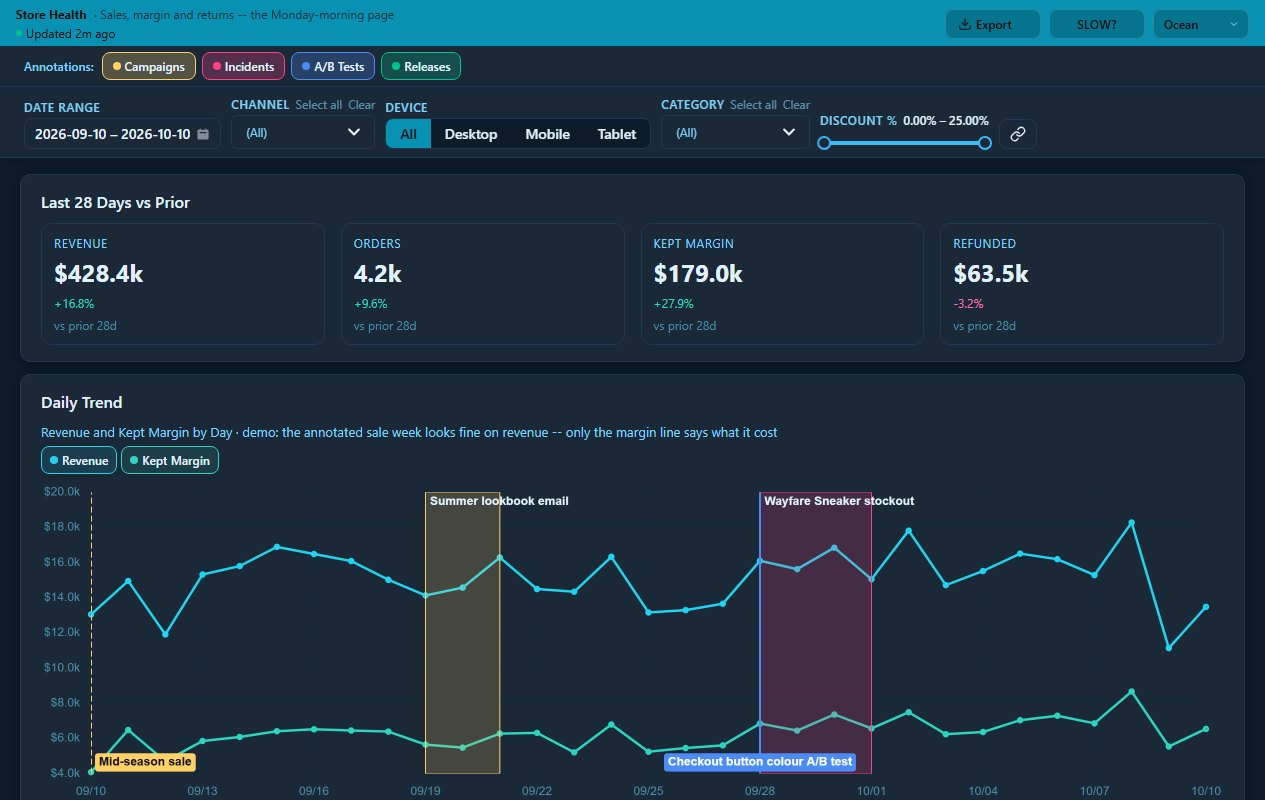
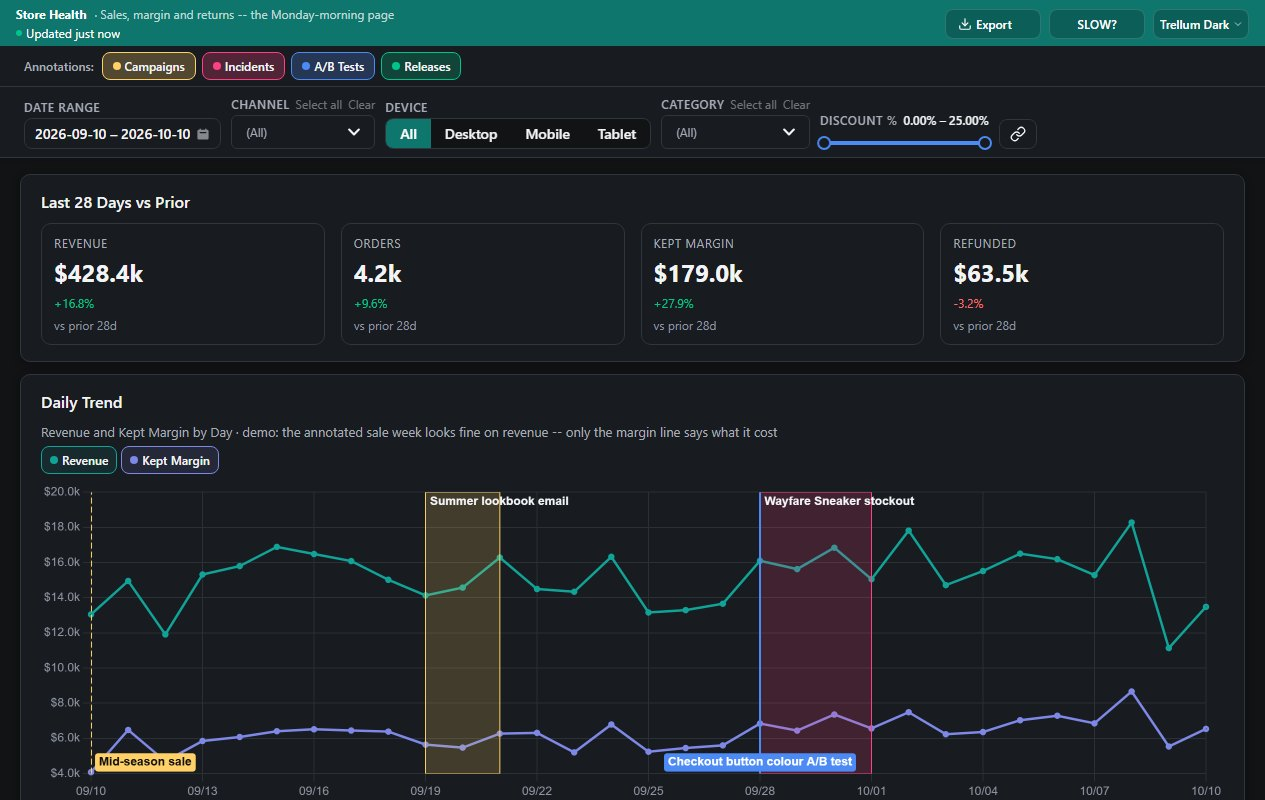
docs: use Trellum Dark in README reports

diff --git a/README.md b/README.md
@@ -38,15 +38,15 @@ and source files, rebuilds the report, and the preview refreshes while the
 source stays reviewable in Git.
 
 <p align="center">
-  <img src="docs/assets/store-health.jpg" alt="Store Health report with comparison KPIs, filters, and revenue and margin trends">
+  <img src="docs/assets/store-health.jpg" alt="Store Health report in Trellum Dark, with comparison KPIs, filters, and revenue and margin trends">
   <br>
-  <sub>Store Health is a synthetic retail report, separate from the Nova Play examples.</sub>
+  <sub>Store Health is a synthetic retail report in Trellum Dark, separate from the Nova Play examples.</sub>
 </p>
 
 <p align="center">
-  <img src="docs/assets/report-mobile.jpg" width="260" alt="Conversion report shown at a mobile viewport, with two summary KPIs and a store funnel chart">
+  <img src="docs/assets/report-mobile.jpg" width="260" alt="Conversion report in Trellum Dark at a mobile viewport, with two summary KPIs and a store funnel chart">
   <br>
-  <sub>Conversion at a mobile viewport, using synthetic data.</sub>
+  <sub>Conversion in Trellum Dark at a mobile viewport, using synthetic data.</sub>
 </p>
 
 Use the standalone framework on a laptop, in CI, or behind your own web server.
